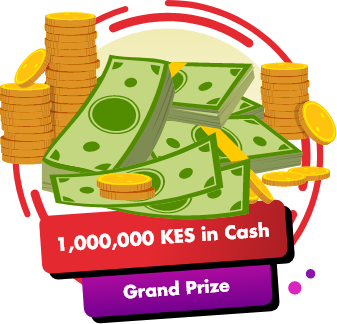
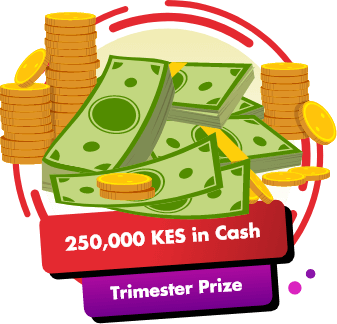
Prizes

Changed region(s): [[0.178, 0.679, 0.8012, 0.8025], [0.3264, 0.8642, 0.7418, 0.9259]]

diff --git a/src/app/prizes/prizes.component.html b/src/app/prizes/prizes.component.html
@@ -11,25 +11,24 @@
       <!-- <img class="icon" src="assets/icons/prize.png" alt=""/> -->
       <div class="item animate__animated animate__zoomIn" style="animation-duration: 300ms; animation-delay: 100ms;">
         <div class="animate__animated animate__tada" style="animation-duration: 1s; animation-delay: 1s;">
-          <img src="assets/icons/grand_prize.png" alt="">
-          <h4>{{ 'HOME.CAR_03' | translate }}</h4>
-          <p>{{ 'HOME.CAR_03b' | translate }}</p>
+          <img class="icon" *ngIf="isEng" src="assets/images/t1.png" alt=""/>
+          <img class="icon" *ngIf="!isEng" src="assets/images/t1K.png" alt=""/>
+          <!-- <h4>{{ 'HOME.CAR_03' | translate }}</h4>
+          <p>{{ 'HOME.CAR_03b' | translate }}</p> -->
         </div>
         
       </div>
       <div class="item animate__animated animate__zoomIn" style="animation-duration: 300ms; animation-delay: 400ms;">
         <div class="animate__animated animate__tada" style="animation-duration: 1s; animation-delay: 1500ms;">
-          <img src="assets/icons/monthly_prize.png" alt="">
-          <h4>{{ 'HOME.CAR_02' | translate }}</h4>
-          <p>{{ 'HOME.CAR_02b' | translate }}</p>
+          <img class="icon" *ngIf="isEng" src="assets/images/t2.png" alt=""/>
+          <img class="icon" *ngIf="!isEng" src="assets/images/t2K.png" alt=""/>
         </div>
         
       </div>
       <div class="item animate__animated animate__zoomIn" style="animation-duration: 300ms; animation-delay: 800ms;">
         <div class="animate__animated animate__tada" style="animation-duration: 1s; animation-delay: 2s;">
-          <img src="assets/icons/weekly_prize.png" alt="">
-          <h4>{{ 'HOME.CAR_01' | translate }}</h4>
-          <p>{{ 'HOME.CAR_01b' | translate }}</p>
+          <img class="icon" *ngIf="isEng" src="assets/images/t4.png" alt=""/>
+          <img class="icon" *ngIf="!isEng" src="assets/images/t4K.png" alt=""/>
         </div>
         
       </div>

diff --git a/src/app/prizes/prizes.component.ts b/src/app/prizes/prizes.component.ts
@@ -2,6 +2,7 @@ import { Component, OnInit } from '@angular/core';
 import { DataService } from '../data.service';
 import { SessionService } from '../session.service';
 import { Router } from '@angular/router';
+import { TranslateService } from '@ngx-translate/core';
 
 @Component({
   selector: 'app-prizes',
@@ -12,36 +13,52 @@ export class PrizesComponent implements OnInit {
 
   public isActive: boolean = false;
   public _gamesPlayed = 0;
-  
-  constructor(private dataService : DataService, private sessionService: SessionService, private router: Router ) { }
+  isEng: boolean = true;
+
+  constructor(private dataService: DataService, private sessionService: SessionService, private router: Router, private translate: TranslateService) {
+    translate.onLangChange.subscribe(lang => {
+      if (this.translate.currentLang == 'en')
+        this.isEng = true;
+      else
+        this.isEng = false;
+
+    })
+  }
 
   ngOnInit() {
-    window.scroll(0,0);
+
+    if (this.translate.currentLang == 'en')
+      this.isEng = true;
+    else
+      this.isEng = false;
+
+
+    window.scroll(0, 0);
     if (!this.sessionService.token || !this.sessionService.isSubscribed || !this.sessionService.isEligible) {
       // wanna inform the user here?
       this.isActive = true;
-      
-    }else{
+
+    } else {
       this.isActive = false;
       this._gamesPlayed = this.sessionService.gamesPlayed;
     }
-    
-    
+
+
   }
-  
+
   public subscribe($event) {
     console.log('button is clicked');
     $event.stopPropagation();
     this.router.navigate(['home']);
   }
-  
+
   startGame() {
-      console.log("Play Main Game!");
-      this.sessionService.gamesPlayed++;
-      this.router.navigate(['game']);
-    
+    console.log("Play Main Game!");
+    this.sessionService.gamesPlayed++;
+    this.router.navigate(['game']);
+
   }
-  
+
   startFreeGame() {
     this.router.navigate(['freetimegame']);
   }

diff --git a/src/app/home/home.component.html b/src/app/home/home.component.html
@@ -28,7 +28,7 @@
               
         </div>
       </li>
-      <li class="list-wrapper">
+      <!-- <li class="list-wrapper">
             
         <div class="uk-position-center uk-position-small uk-text-center uk-light">
             <div class="vector">
@@ -37,7 +37,7 @@
               </div>
               
         </div>
-      </li>
+      </li> -->
       <li class="list-wrapper">
         
         <div class="uk-position-center uk-position-small uk-text-center uk-light">

diff --git a/src/app/returnhome/returnhome.component.html b/src/app/returnhome/returnhome.component.html
@@ -27,7 +27,7 @@
               
         </div>
       </li>
-      <li class="list-wrapper">
+      <!-- <li class="list-wrapper">
             
         <div class="uk-position-center uk-position-small uk-text-center uk-light">
             <div class="vector">
@@ -36,7 +36,7 @@
               </div>
               
         </div>
-      </li>
+      </li> -->
       <li class="list-wrapper">
         
         <div class="uk-position-center uk-position-small uk-text-center uk-light">

diff --git a/src/app/prizes/prizes.component.scss b/src/app/prizes/prizes.component.scss
@@ -38,7 +38,7 @@
     padding-top: 20px;
     padding-bottom: 20px;
   img {
-    height: 170px;
+    // height: 170px;
   }
   h4 {
     color: #ffffff;
@@ -54,7 +54,7 @@
   }
 }
 .icon{
-  width: 300px;
+  width: 200px;
   padding-bottom: 5px;
 }
  .message-container{
